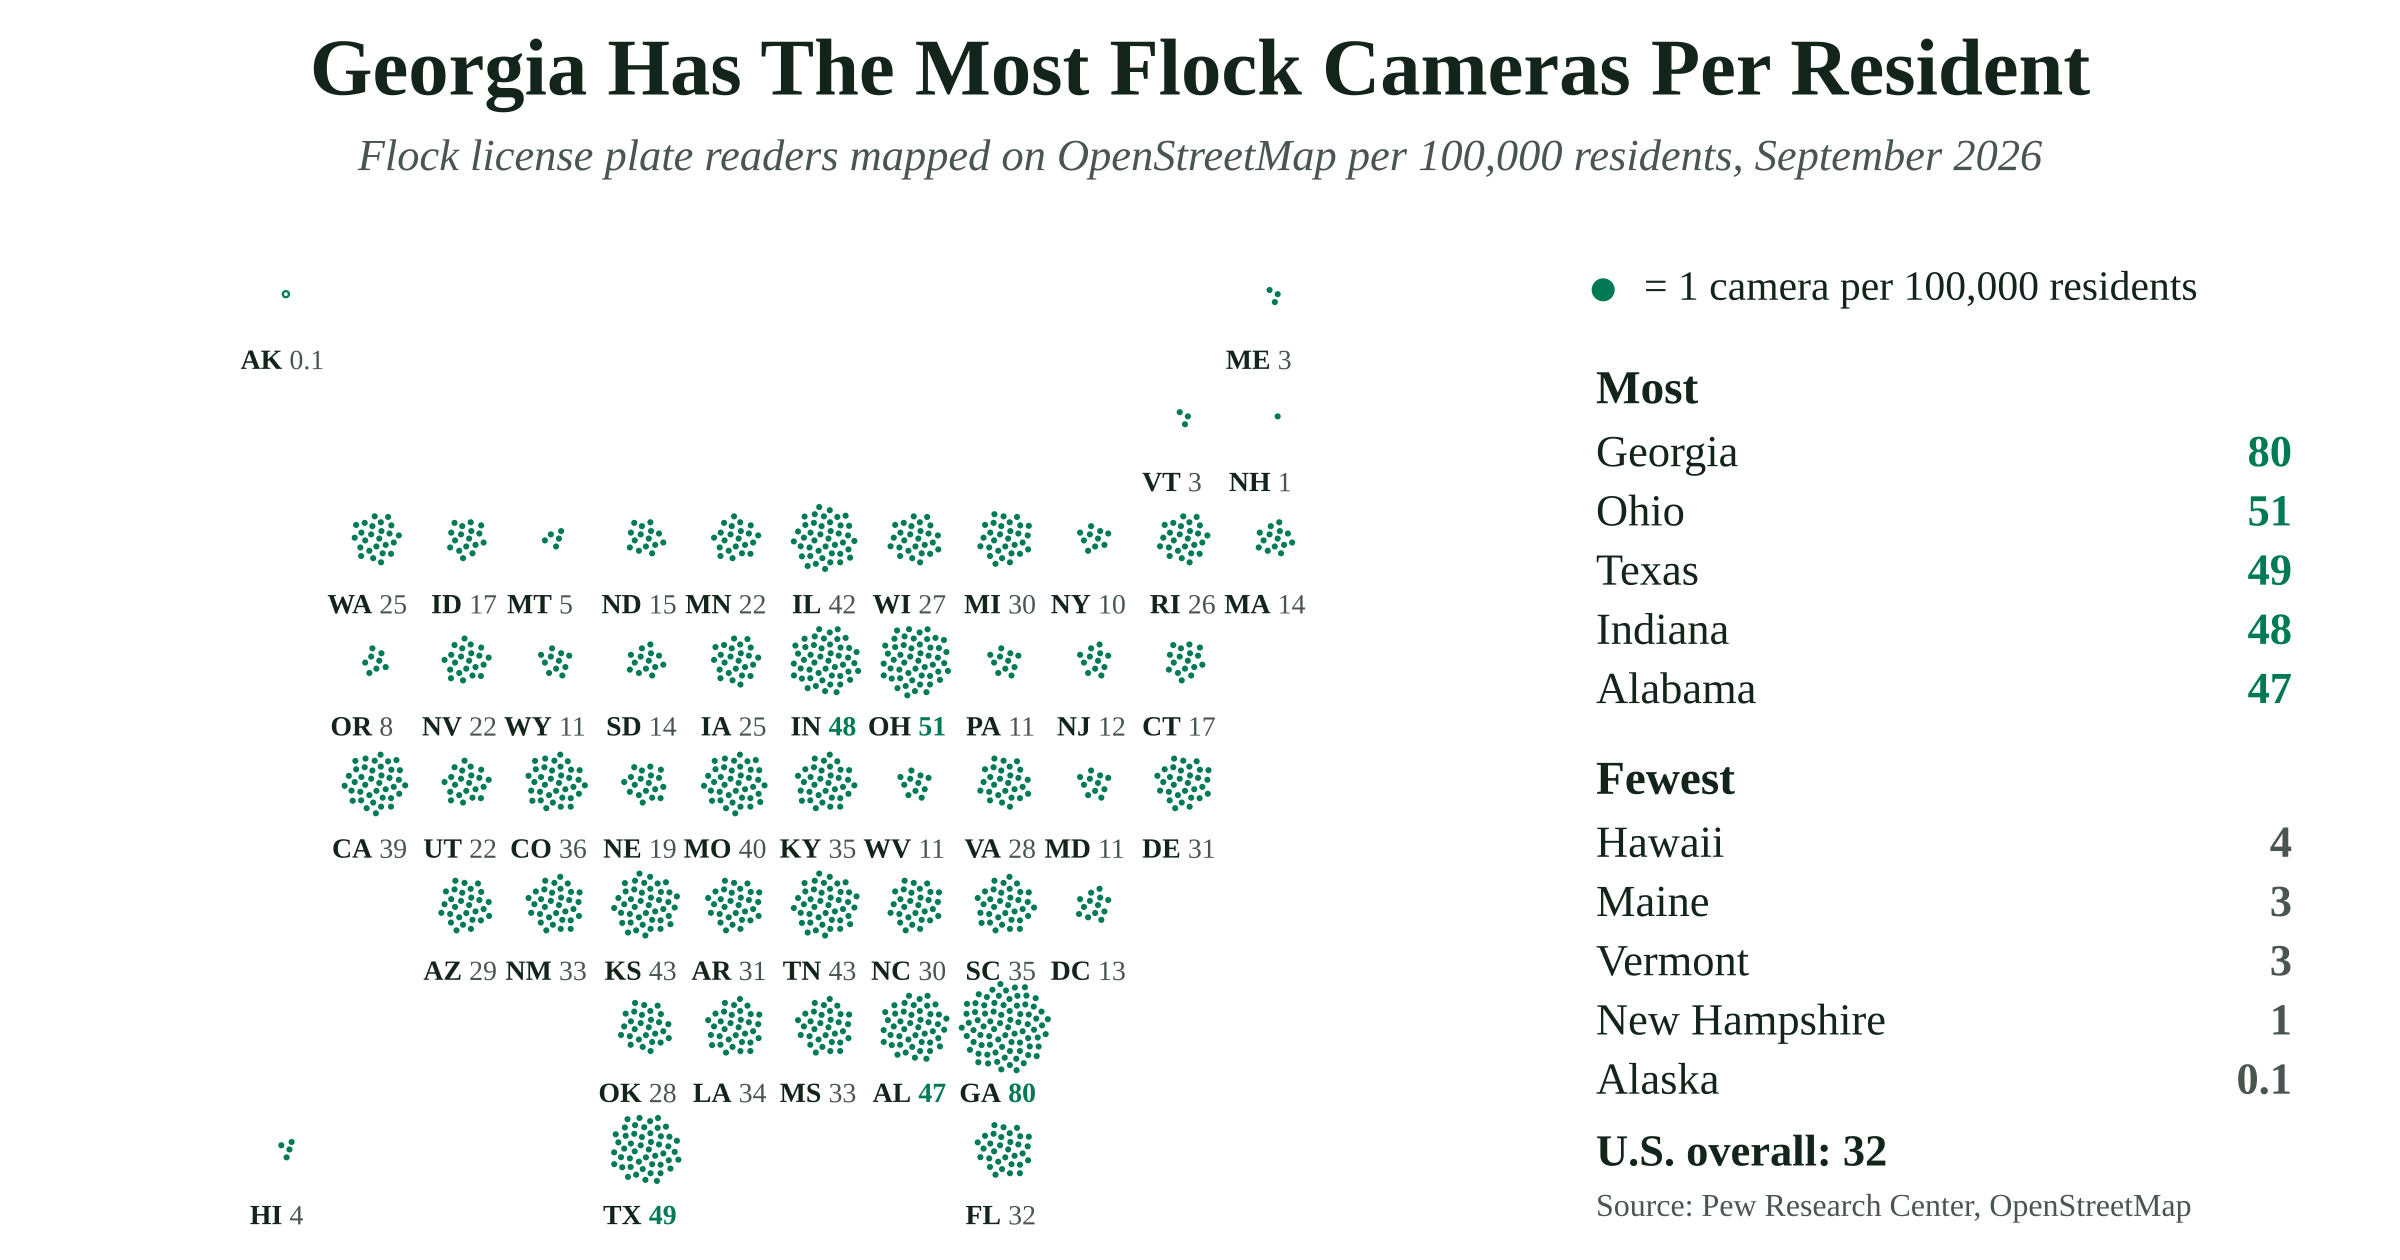
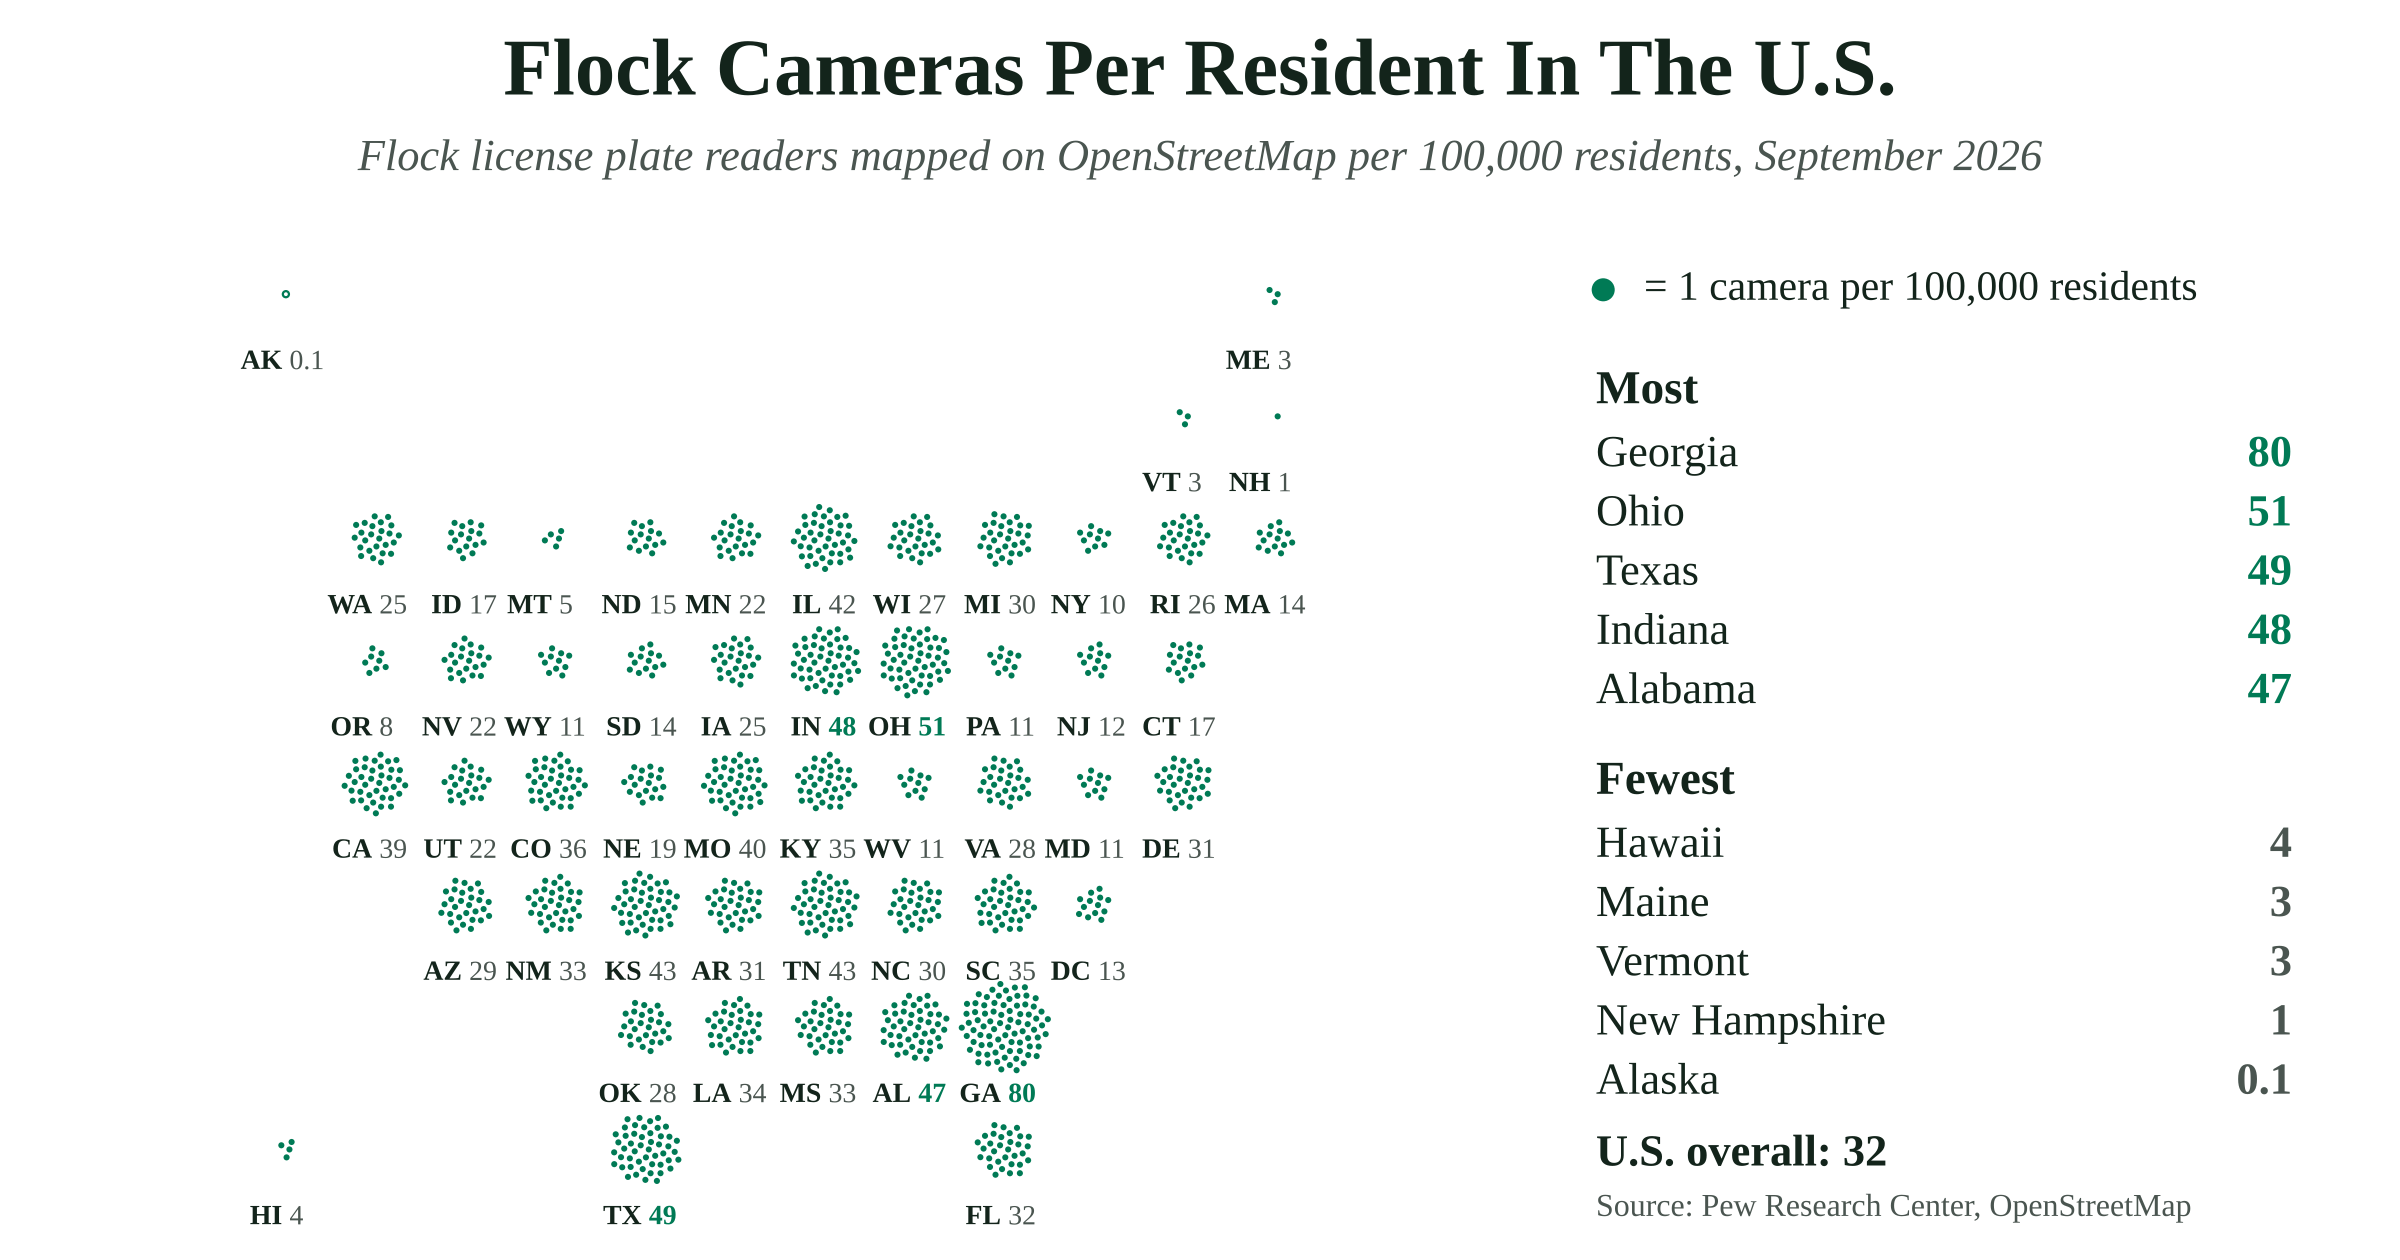
Flock figure title: Flock Cameras Per Resident In The U.S.
Claude-Session: https://claude.ai/code/session_014ps2HoqtiaDX9KtWWc6m6n

Changed region(s): [[0.125, 0.031, 0.875, 0.0929]]

diff --git a/flock/embed.js b/flock/embed.js
@@ -21,7 +21,7 @@ ID+' .card h4{margin:0 0 6px;font-size:1.15em}'+ID+' .card .row{display:flex;fle
 ID+' .card .row div b{display:block;font-family:Georgia,serif;font-size:22px;color:'+INK+'}'+
 ID+' .nt{font-size:12px;color:'+SUB+';margin-top:8px;font-family:-apple-system,"Helvetica Neue",Arial,sans-serif}';
 var st=document.createElement('style');st.textContent=css;document.head.appendChild(st);
-b.innerHTML='<div class="hd"><b>Flock Cameras Per 100,000 Residents</b><span>Flock license plate cameras mapped on OpenStreetMap, September 2026. Tap a state.</span></div><div class="tg"><button data-m="r" class="on">Per 100,000 residents</button><button data-m="c">Total cameras</button></div><div class="key"></div><svg viewBox="0 -0.75 12 11.25"></svg><div class="card"></div><div class="nt">Counts come from a volunteer-built map and are likely an undercount. Flock says it has more than 120,000 cameras; this count found 109,577.</div>';
+b.innerHTML='<div class="hd"><b>Flock Cameras Per Resident In The U.S.</b><span>Flock license plate cameras mapped on OpenStreetMap, September 2026. Tap a state.</span></div><div class="tg"><button data-m="r" class="on">Per 100,000 residents</button><button data-m="c">Total cameras</button></div><div class="key"></div><svg viewBox="0 -0.75 12 11.25"></svg><div class="card"></div><div class="nt">Counts come from a volunteer-built map and are likely an undercount. Flock says it has more than 120,000 cameras; this count found 109,577.</div>';
 var svg=b.querySelector('svg'),card=b.querySelector('.card'),key=b.querySelector('.key'),mode='r',sel=null,shown=false;
 function el(n,a,p){var e=document.createElementNS(NS,n);for(var k in a)e.setAttribute(k,a[k]);p.appendChild(e);return e}
 var N={};

diff --git a/flock/post-body.html b/flock/post-body.html
@@ -24,4 +24,4 @@
 <p>A high rate doesn't say who owns the cameras either. Police departments, homeowner associations and businesses all buy them, and the map lists an owner for only 12% of cameras.</p>
 <p class="nid-method"><em>How we counted: All figures come from Pew Research Center's Nov. 9, 2026, analysis. Camera counts are OpenStreetMap entries tagged as Flock Safety license plate readers, accessed Sept. 17, 2026 (109,577 in all), divided by Census Bureau 2025 population estimates. Rates in the charts are Pew's rounded figures; the 32 per 100,000 national rate is our calculation from Pew's state counts and populations. Portal figures are Pew's analysis of 1,517 agencies tracked by EyesOnFlock, accessed Sept. 21, 2026. In the interactive's total view, each dot is 200 cameras. <a href="https://www.pewresearch.org/short-reads/2026/11/09/what-we-know-and-dont-know-about-flocks-license-plate-cameras/">Pew Research Center</a>. <a href="https://stories.thenewsindata.com/data/georgia-has-80-flock-license-plate-cameras-per-100000-residents-the-most-of-any-state.csv">Download our data (CSV)</a>.</em></p>
 </div>
-<script src="https://stories.thenewsindata.com/flock/embed.js?v=2"></script>
+<script src="https://stories.thenewsindata.com/flock/embed.js?v=3"></script>

diff --git a/flock/index.html b/flock/index.html
@@ -24,4 +24,4 @@
 <p>A high rate doesn't say who owns the cameras either. Police departments, homeowner associations and businesses all buy them, and the map lists an owner for only 12% of cameras.</p>
 <p class="nid-method"><em>How we counted: All figures come from Pew Research Center's Nov. 9, 2026, analysis. Camera counts are OpenStreetMap entries tagged as Flock Safety license plate readers, accessed Sept. 17, 2026 (109,577 in all), divided by Census Bureau 2025 population estimates. Rates in the charts are Pew's rounded figures; the 32 per 100,000 national rate is our calculation from Pew's state counts and populations. Portal figures are Pew's analysis of 1,517 agencies tracked by EyesOnFlock, accessed Sept. 21, 2026. In the interactive's total view, each dot is 200 cameras. <a href="https://www.pewresearch.org/short-reads/2026/11/09/what-we-know-and-dont-know-about-flocks-license-plate-cameras/">Pew Research Center</a>. <a href="https://stories.thenewsindata.com/data/georgia-has-80-flock-license-plate-cameras-per-100000-residents-the-most-of-any-state.csv">Download our data (CSV)</a>.</em></p>
 </div>
-<script src="./embed.js?v=2"></script>
+<script src="./embed.js?v=3"></script>
